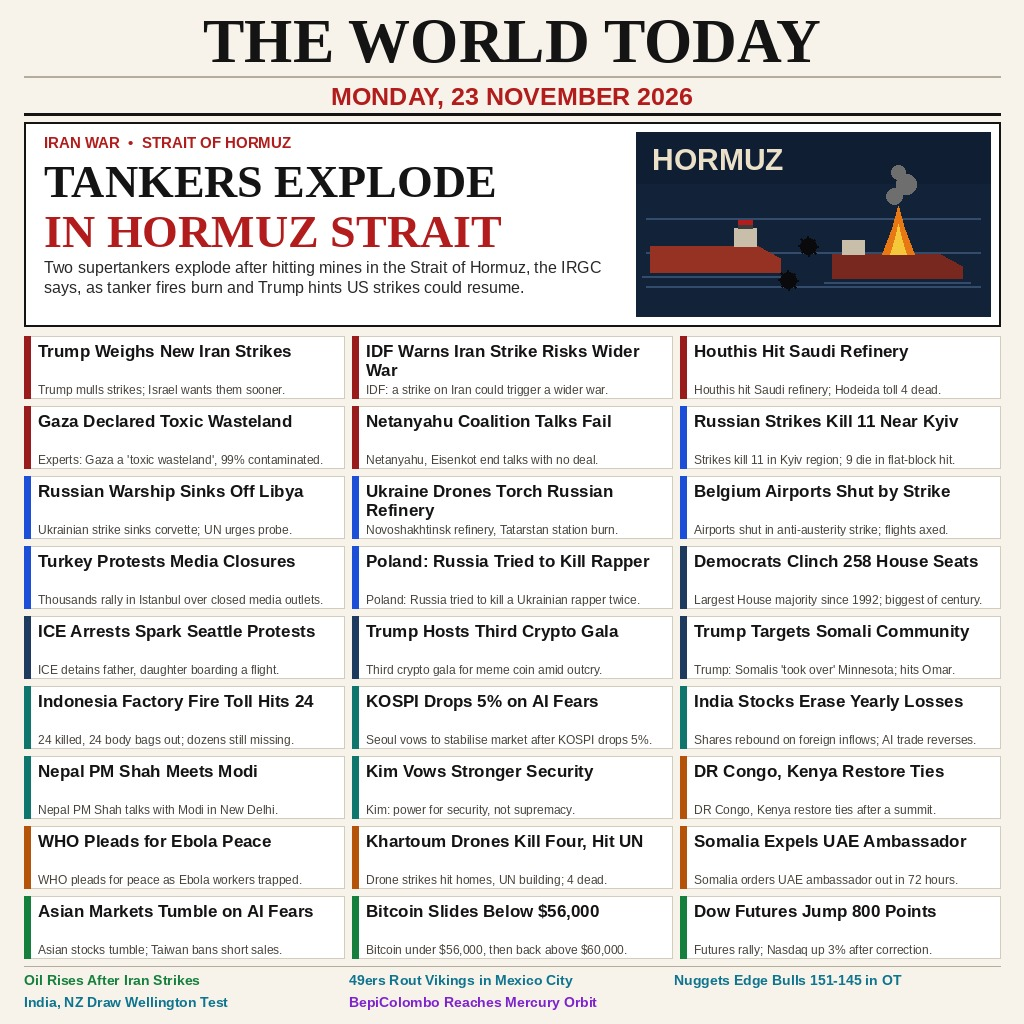
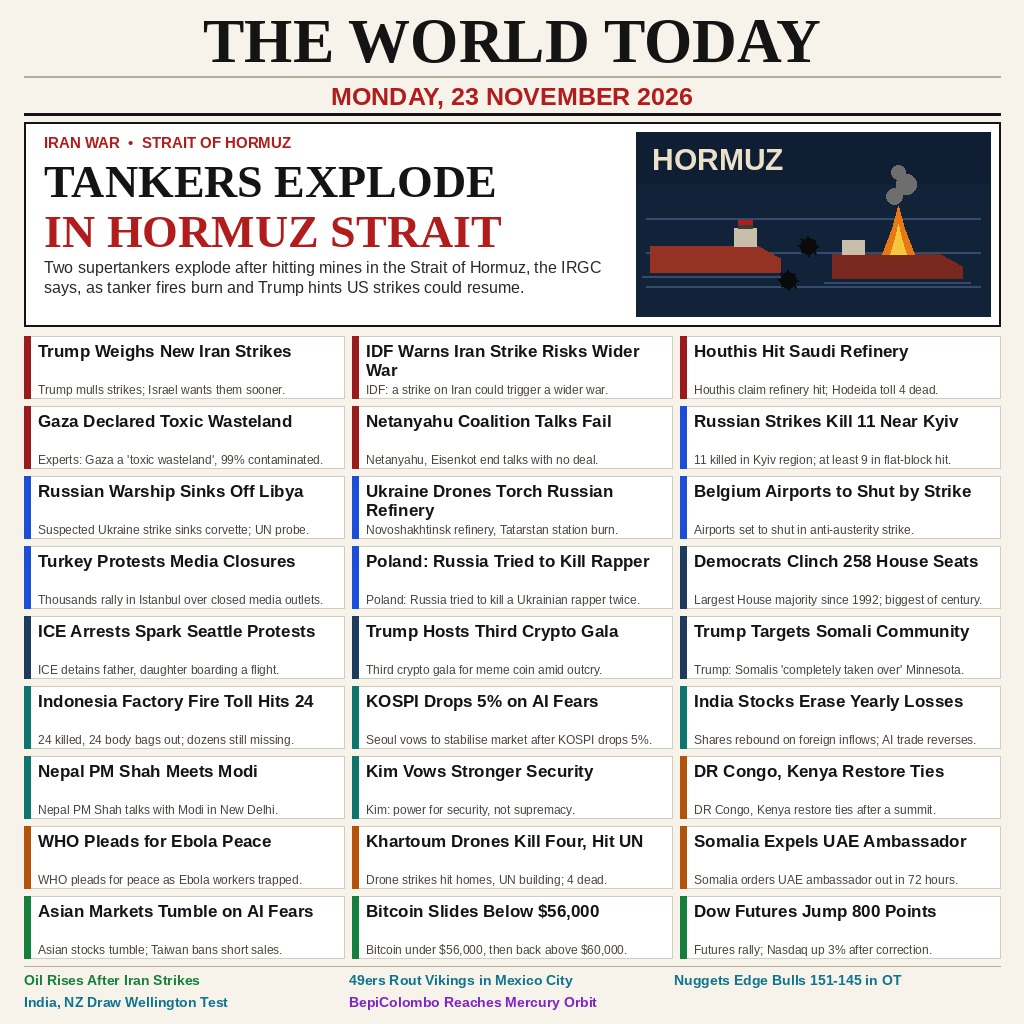
Review fixes: restore attribution (Houthis claim, suspected Ukraine strike), tense (Belgium set to shut, at least 9 Kyiv, completely taken over)

diff --git a/stories.py b/stories.py
@@ -23,20 +23,20 @@ STORIES = [
     ("MIDDLE EAST", (153, 27, 27), "IDF Warns Iran Strike Risks Wider War",
      "IDF: a strike on Iran could trigger a wider war."),
     ("MIDDLE EAST", (153, 27, 27), "Houthis Hit Saudi Refinery",
-     "Houthis hit Saudi refinery; Hodeida toll 4 dead."),
+     "Houthis claim refinery hit; Hodeida toll 4 dead."),
     ("MIDDLE EAST", (153, 27, 27), "Gaza Declared Toxic Wasteland",
      "Experts: Gaza a 'toxic wasteland', 99% contaminated."),
     ("MIDDLE EAST", (153, 27, 27), "Netanyahu Coalition Talks Fail",
      "Netanyahu, Eisenkot end talks with no deal."),
     # --- Ukraine / Europe (6) ---
     ("UKRAINE", (29, 78, 216), "Russian Strikes Kill 11 Near Kyiv",
-     "Strikes kill 11 in Kyiv region; 9 die in flat-block hit."),
+     "11 killed in Kyiv region; at least 9 in flat-block hit."),
     ("UKRAINE", (29, 78, 216), "Russian Warship Sinks Off Libya",
-     "Ukrainian strike sinks corvette; UN urges probe."),
+     "Suspected Ukraine strike sinks corvette; UN probe."),
     ("UKRAINE", (29, 78, 216), "Ukraine Drones Torch Russian Refinery",
      "Novoshakhtinsk refinery, Tatarstan station burn."),
-    ("EUROPE", (29, 78, 216), "Belgium Airports Shut by Strike",
-     "Airports shut in anti-austerity strike; flights axed."),
+    ("EUROPE", (29, 78, 216), "Belgium Airports to Shut by Strike",
+     "Airports set to shut in anti-austerity strike."),
     ("EUROPE", (29, 78, 216), "Turkey Protests Media Closures",
      "Thousands rally in Istanbul over closed media outlets."),
     ("EUROPE", (29, 78, 216), "Poland: Russia Tried to Kill Rapper",
@@ -49,7 +49,7 @@ STORIES = [
     ("USA", (30, 58, 95), "Trump Hosts Third Crypto Gala",
      "Third crypto gala for meme coin amid outcry."),
     ("USA", (30, 58, 95), "Trump Targets Somali Community",
-     "Trump: Somalis 'took over' Minnesota; hits Omar."),
+     "Trump: Somalis 'completely taken over' Minnesota."),
     # --- Asia (5) ---
     ("ASIA", (15, 118, 110), "Indonesia Factory Fire Toll Hits 24",
      "24 killed, 24 body bags out; dozens still missing."),

diff --git a/README.md b/README.md
@@ -12,7 +12,7 @@ A newspaper-front-page image summing up the world's news of Monday 23 November 2
 python3 main.py /tmp/out/entry.png
 ```
 
-Two runs write byte-identical files (same SHA-256). The image is 1024×1024 JPEG, 326,041 bytes, under 1 MiB. The front page itself is drawn by `build_frontpage.py` (PIL, Liberation fonts, local run only); `main.py` never draws and needs neither.
+Two runs write byte-identical files (same SHA-256). The image is 1024×1024 JPEG, 326,178 bytes, under 1 MiB. The front page itself is drawn by `build_frontpage.py` (PIL, Liberation fonts, local run only); `main.py` never draws and needs neither.
 
 To redraw the image:
 
@@ -37,7 +37,7 @@ All 33 stories were reported on Monday 23 November 2026 (or had a genuine new de
 - **Russian Strikes Kill 11 Near Kyiv** — Russian strikes kill 11 in the Kyiv region; an apartment-block attack kills at least 9, with rescuers searching the rubble. (Arab News / The Guardian, 23 Nov.)
 - **Russian Warship Sinks Off Libya** — A suspected Ukrainian strike sinks the Russian Navy corvette off Benghazi; the UN urges a probe. (Fox News / France 24, 23 Nov.)
 - **Ukraine Drones Torch Russian Refinery** — The Novoshakhtinsk oil refinery and a Tatarstan pumping station burn after a Ukrainian drone attack. (The Kyiv Independent, 23 Nov.)
-- **Belgium Airports Shut by Strike** — Belgium's airports are set to shut down in an anti-austerity strike; Monday flights are cancelled. (Al Jazeera, 23 Nov.)
+- **Belgium Airports to Shut by Strike** — Belgium's airports are set to shut down in an anti-austerity strike; Monday flights are cancelled. (Al Jazeera, 23 Nov.)
 - **Turkey Protests Media Closures** — Thousands rally in Istanbul against the closure of opposition media outlets. (DW / France 24, 23 Nov.)
 - **Poland: Russia Tried to Kill Rapper** — Poland says Russia tried to assassinate a Ukrainian rapper twice. (Al Jazeera, 23 Nov.)
 - **Democrats Clinch 258 House Seats** — House Democrats secure at least 258 seats, their largest House majority since 1992 and the biggest of the 21st century. (AP / Washington Post, 23 Nov.)
@@ -64,4 +64,4 @@ All 33 stories were reported on Monday 23 November 2026 (or had a genuine new de
 
 ## How it was made
 
-The front page is drawn entirely in code (PIL): masthead with the explicit date "MONDAY, 23 NOVEMBER 2026", a hero panel on the Hormuz tanker explosions with a drawn strait scene (two tankers, one burning, naval mines), a dense 3-column grid of 27 stories with colour bars per region, and a footer strip with 5 more stories — 33 verified stories in all, across the Middle East, Ukraine/Europe, the US, Asia, Africa, markets, sport and science. Every fact on the page was checked against the reporting listed above before it was drawn. The layout reuses the geometry that won the 22 November entry's dev heat, with a spacing rule added from its v2 failure: fixed-height cells, headlines capped at two lines in a zone that ends above the fact line, so no headline can collide with its fact line at full size or at 300px. The image is 1024×1024 JPEG, 326,041 bytes, and every headline is legible at 300px.
+The front page is drawn entirely in code (PIL): masthead with the explicit date "MONDAY, 23 NOVEMBER 2026", a hero panel on the Hormuz tanker explosions with a drawn strait scene (two tankers, one burning, naval mines), a dense 3-column grid of 27 stories with colour bars per region, and a footer strip with 5 more stories — 33 verified stories in all, across the Middle East, Ukraine/Europe, the US, Asia, Africa, markets, sport and science. Every fact on the page was checked against the reporting listed above before it was drawn. The layout reuses the geometry that won the 22 November entry's dev heat, with a spacing rule added from its v2 failure: fixed-height cells, headlines capped at two lines in a zone that ends above the fact line, so no headline can collide with its fact line at full size or at 300px. The image is 1024×1024 JPEG, 326,178 bytes, and every headline is legible at 300px.
